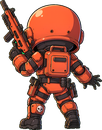
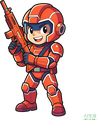
feat(v2.4): 全套AI精灵图(6怪+新正面士兵,绿幕抠图)；自爆胖子/奶妈僵尸新机制；小兵数量+密度提升；子弹/火光/激光统一枪口位(x+22,y-82)；去描边框

diff --git a/index.html b/index.html
@@ -24,6 +24,10 @@ const W = cv.width, H = cv.height;
 const WALL_Y = H - 110, PLAYER_Y = H - 70;
 // 像素士兵立绘（生成素材）
 const soldierImg = new Image(); soldierImg.src = 'soldier.png';
+const ZSPRITES = {};
+for(const [k,f] of Object.entries({normal:'z_normal.png',fast:'z_fast.png',tank:'z_tank.png',bomber:'z_bomber.png',nurse:'z_nurse.png',boss:'z_boss.png'})){
+  const im = new Image(); im.src = f; ZSPRITES[k] = im;
+}
 
 // ================= 存档（局外累积） =================
 const SAVE_KEY = 'zf_save_v1';
@@ -206,23 +210,27 @@ function buildWave(n){
   waveBanner = { text: n%5===0? `⚠ 第 ${n} 波 · BOSS 来袭` : `第 ${n} 波`, boss: n%5===0, life:80, max:80 };
   spawnQueue = [];
   const boss = n % 5 === 0;
-  let count = 6 + Math.floor(n*1.8);
+  let count = 10 + Math.floor(n*2.2);          // 小兵更多，场面热闹
   if(boss) count = Math.floor(count*0.6);
   for(let i=0;i<count;i++){
     let type = 'normal';
     const r = Math.random();
-    if(n>=3 && r<0.22) type='fast';
-    else if(n>=4 && r<0.34) type='tank';
-    spawnQueue.push({ type, delay: 70 + i*(boss?34:22) });   // 开头留 >1 秒喘息
+    if(n>=2 && r<0.25) type='fast';
+    else if(n>=4 && r<0.40) type='tank';
+    else if(n>=6 && r<0.50) type='bomber';     // 自爆胖子
+    else if(n>=8 && r<0.58) type='nurse';      // 奶妈僵尸
+    spawnQueue.push({ type, delay: 70 + i*(boss?34:16) });   // 出怪更密
   }
-  if(boss) spawnQueue.push({ type:'boss', delay: count*22 + 40 });
+  if(boss) spawnQueue.push({ type:'boss', delay: 70 + count*16 + 40 });
 }
 
 const ZTYPES = {
-  normal:{ hp:18,  hpw:6,   spd:0.35, spw:0.012, w:36, h:44, dmg:8,  coin:2,  dia:0, xp:2 },
-  fast:  { hp:10,  hpw:4,   spd:0.85, spw:0.018,  w:30, h:36, dmg:5,  coin:3,  dia:0, xp:3 },
-  tank:  { hp:60,  hpw:14,  spd:0.22, spw:0.008, w:48, h:56, dmg:16, coin:6,  dia:0, xp:5 },
-  boss:  { hp:400, hpw:80,  spd:0.16, spw:0,     w:84, h:92, dmg:30, coin:50, dia:20, xp:30 },
+  normal:{ hp:24,  hpw:7,   spd:0.35, spw:0.012, w:44, h:64, dmg:8,  coin:2,  dia:0, xp:2 },
+  fast:  { hp:14,  hpw:5,   spd:0.85, spw:0.018, w:34, h:56, dmg:5,  coin:3,  dia:0, xp:3 },
+  tank:  { hp:90,  hpw:18,  spd:0.22, spw:0.008, w:58, h:74, dmg:16, coin:6,  dia:0, xp:5 },
+  bomber:{ hp:30,  hpw:9,   spd:0.5,  spw:0.012, w:46, h:72, dmg:0,  coin:5,  dia:0, xp:4 },
+  nurse: { hp:40,  hpw:11,  spd:0.3,  spw:0.010, w:42, h:64, dmg:4,  coin:6,  dia:0, xp:4 },
+  boss:  { hp:500, hpw:95,  spd:0.16, spw:0,     w:98, h:110,dmg:30, coin:50, dia:20, xp:30 },
 };
 function spawn(type){
   const b = ZTYPES[type];
@@ -265,7 +273,7 @@ function shoot(){
   const t = zombies.filter(z=>z.y>-z.h).sort((a,b)=>b.y-a.y)[0];
   if(!t) return;
   // 枪口尖端出膛（贴立绘枪口位置）
-  const tipX = player.x - 14, tipY = PLAYER_Y - 74;
+  const tipX = player.x + 22, tipY = PLAYER_Y - 82;
   for(let i=0;i<stats.multi;i++){
     const off = (i-(stats.multi-1)/2);
     fireBullet(tipX + Math.cos(player.ang)*off*8, tipY + Math.sin(player.ang)*off*8, t, 1, false);
@@ -401,9 +409,34 @@ function update(){
     if(z.slow>0) z.slow--;
     if(z.hurt>0) z.hurt--;
     if(z.burn>0){ z.burn--; z.hp -= 0.08*stats.burn; if(frame%6===0) parts.push({x:z.x+(Math.random()-0.5)*z.w,y:z.y+z.h*0.5,vx:0,vy:-1.5,life:14,color:'#ff7b3a'}); }
+    // 奶妈僵尸：每 2 秒治疗周围同伴
+    if(z.type==='nurse'){
+      if(frame % 120 === 0){
+        let healed=false;
+        zombies.forEach(o=>{
+          if(o!==z && !o.deadTag && Math.hypot(o.x-z.x,o.y-z.y)<130 && o.hp<o.max){
+            o.hp = Math.min(o.max, o.hp + o.max*0.08);
+            healed=true;
+            floatText(o.x, o.y, '+', '#7dff9e');
+          }
+        });
+        if(healed) ring(z.x, z.y+z.h/2, 130, '#7dff9e', 2, 16);
+      }
+    }
+    // 自爆胖子：贴近防线自爆（大伤害+震动），被远距打死则安全
+    if(z.type==='bomber'){
+      if(z.y + z.h >= WALL_Y + 26){
+        wall.hp -= 26; shake=16;
+        boomArea(z.x, WALL_Y+20, 90, 0);
+        burst(z.x, WALL_Y, '#ff5252', 22);
+        floatText(z.x, WALL_Y-40, '💥 自爆 -26', '#ff5252');
+        z.hp = 0; z.deadTag = true;
+        return;
+      }
+    }
     if(z.y + z.h < WALL_Y + 30){ z.y += spd; }
     else {
-      if(--z.atkCd<=0){ wall.hp -= z.dmg; z.atkCd=50; burst(z.x, WALL_Y, '#ff5252', 5); shake=Math.max(shake,4); }
+      if(z.dmg>0 && --z.atkCd<=0){ wall.hp -= z.dmg; z.atkCd=50; burst(z.x, WALL_Y, '#ff5252', 5); shake=Math.max(shake,4); }
     }
     // Boss 远程攻击
     if(z.type==='boss' && z.y>60 && --z.shotCd<=0){
@@ -507,49 +540,42 @@ const bg = document.createElement('canvas'); bg.width=W; bg.height=H;
 })();
 
 function drawZombie(z){
-  ctx.save(); ctx.translate(z.x, z.y);
-  const t = frame*0.15 + z.x;
-  const step = Math.sin(t)*4;           // 走路摆动
-  const lean = z.type==='fast'? -0.12 : 0;
-  ctx.rotate(lean);
-  const C = { normal:{body:'#5d9448',dark:'#436f33',head:'#7ab35e'},
-              fast:  {body:'#b09a3e',dark:'#8a772c',head:'#d0b955'},
-              tank:  {body:'#6d4b96',dark:'#523677',head:'#8a63b8'},
-              boss:  {body:'#a83a3a',dark:'#7d2727',head:'#c74f4f'} }[z.type];
-  // 腿
-  ctx.fillStyle=C.dark;
-  ctx.fillRect(-z.w*0.28 + step*0.4, z.h*0.78, z.w*0.2, z.h*0.24);
-  ctx.fillRect( z.w*0.08 - step*0.4, z.h*0.78, z.w*0.2, z.h*0.24);
-  // 身体
-  ctx.fillStyle = z.hurt>0? '#fff' : C.body;
-  ctx.beginPath(); ctx.roundRect(-z.w*0.38, z.h*0.34, z.w*0.76, z.h*0.48, 7); ctx.fill();
-  // 前伸手臂
-  ctx.fillStyle = z.hurt>0? '#fff' : C.dark;
-  ctx.save(); ctx.translate(-z.w*0.34, z.h*0.42); ctx.rotate(Math.sin(t)*0.2);
-  ctx.fillRect(-z.w*0.42, 0, z.w*0.5, 7); ctx.restore();
-  ctx.save(); ctx.translate(z.w*0.34, z.h*0.42); ctx.rotate(-Math.sin(t)*0.2);
-  ctx.fillRect(-z.w*0.08, 0, z.w*0.5, 7); ctx.restore();
-  // 头
-  ctx.fillStyle = z.hurt>0? '#fff' : C.head;
-  ctx.beginPath(); ctx.arc(step*0.2, z.h*0.2, z.w*0.3, 0, 7); ctx.fill();
-  // 红眼
-  ctx.fillStyle='#ff3b3b';
-  ctx.fillRect(-z.w*0.16+step*0.2, z.h*0.13, 5, 5);
-  ctx.fillRect( z.w*0.05+step*0.2, z.h*0.13, 5, 5);
-  // Boss 犄角
-  if(z.type==='boss'){
-    ctx.fillStyle='#e8c14a';
-    ctx.beginPath(); ctx.moveTo(-z.w*0.3,-z.h*0.02); ctx.lineTo(-z.w*0.42,-z.h*0.22); ctx.lineTo(-z.w*0.16,-z.h*0.08); ctx.fill();
-    ctx.beginPath(); ctx.moveTo(z.w*0.3,-z.h*0.02); ctx.lineTo(z.w*0.42,-z.h*0.22); ctx.lineTo(z.w*0.16,-z.h*0.08); ctx.fill();
+  const spr = ZSPRITES[z.type];
+  ctx.save();
+  // 脚下阴影
+  ctx.globalAlpha=0.35; ctx.fillStyle='#0a0814';
+  ctx.beginPath(); ctx.ellipse(z.x, z.y+z.h-2, z.w*0.38, 6, 0, 0, 7); ctx.fill();
+  ctx.globalAlpha=1;
+  const wob = Math.sin(frame*0.15+z.x)*2;   // 走路晃动
+  if(spr && spr.complete && spr.naturalWidth>0){
+    ctx.drawImage(spr, z.x - spr.width/2, z.y + wob*0.3, spr.width, spr.height);
+    if(z.hurt>0){   // 受击白闪（用半透明白矩形叠加精灵区域）
+      ctx.globalCompositeOperation='source-atop';
+      ctx.fillStyle='rgba(255,255,255,0.55)';
+      ctx.fillRect(z.x-spr.width/2, z.y, spr.width, spr.height);
+      ctx.globalCompositeOperation='source-over';
+    }
+  } else {
+    // 兜底：无图时画色块
+    ctx.fillStyle = '#7fae5b';
+    ctx.beginPath(); ctx.roundRect(z.x-z.w/2, z.y, z.w, z.h, 6); ctx.fill();
   }
-  // 灼烧
-  if(z.burn>0){ ctx.fillStyle='rgba(255,120,40,0.25)'; ctx.beginPath(); ctx.arc(0,z.h/2,z.w*0.55,0,7); ctx.fill(); }
-  // 冰冻
-  if(z.slow>0){ ctx.strokeStyle='#7fd6ff'; ctx.lineWidth=2; ctx.strokeRect(-z.w/2-2,-2,z.w+4,z.h+4); }
-  // 血条
-  ctx.fillStyle='#00000088'; ctx.fillRect(-z.w/2,-12,z.w,5);
-  ctx.fillStyle='#ff5252'; ctx.fillRect(-z.w/2,-12,z.w*(z.hp/z.max),5);
   ctx.restore();
+  // 冰冻框 / 血条（画在精灵上层）
+  if(z.slow>0){
+    ctx.strokeStyle='#7fd6ff'; ctx.lineWidth=2;
+    ctx.strokeRect(z.x-z.w/2-2, z.y-2, z.w+4, z.h+4);
+  }
+  if(z.hp < z.max){
+    const bw = z.w;
+    ctx.fillStyle='#00000088'; ctx.fillRect(z.x-bw/2,-12+ (z.y>0?0:0),bw,5);
+    ctx.fillStyle='#ff5252'; ctx.fillRect(z.x-bw/2,-12,bw*(z.hp/z.max),5);
+  }
+  // 自爆胖子低血量闪烁警示
+  if(z.type==='bomber' && z.hp < z.max*0.4 && frame%14<7){
+    ctx.strokeStyle='#ff5252'; ctx.lineWidth=3;
+    ctx.strokeRect(z.x-z.w/2-4, z.y-4, z.w+8, z.h+8);
+  }
 }
 
 function draw(){
@@ -580,15 +606,11 @@ function draw(){
     ctx.beginPath(); ctx.ellipse(player.x, PLAYER_Y+6, SW*0.32, 7, 0, 0, 7); ctx.fill();
     ctx.restore();
     ctx.drawImage(soldierImg, player.x - SW/2, sy + bob, SW, SH);
-    // 轮廓描边光（让角色从背景里"跳"出来）
-    ctx.save();
-    ctx.globalAlpha=0.25; ctx.strokeStyle='#8be9fd'; ctx.lineWidth=2;
-    ctx.strokeRect(player.x-SW/2-1, sy+bob-1, SW+2, SH+2);
-    ctx.restore();
+
     // 枪口火光（贴立绘枪口）
     if(flashMuzzle>0){
       ctx.save();
-      ctx.translate(player.x - SW*0.15, sy + 10);
+      ctx.translate(player.x + 22, sy + 34);
       ctx.shadowColor='#ffd93d'; ctx.shadowBlur=12;
       ctx.fillStyle='#fff3b0'; ctx.beginPath(); ctx.arc(0,0,7,0,7); ctx.fill();
       ctx.fillStyle='#ffb347'; ctx.beginPath(); ctx.arc(0,0,4,0,7); ctx.fill();
@@ -609,9 +631,9 @@ function draw(){
     ctx.shadowColor='#ff5ce1'; ctx.shadowBlur=14;
     ctx.strokeStyle='#ff9df0'; ctx.lineWidth=2+stats.laser;
     ctx.globalAlpha=0.85;
-    ctx.beginPath(); ctx.moveTo(player.x,PLAYER_Y-72); ctx.lineTo(laserTarget.x,laserTarget.y+laserTarget.h/2); ctx.stroke();
+    ctx.beginPath(); ctx.moveTo(player.x+22,PLAYER_Y-82); ctx.lineTo(laserTarget.x,laserTarget.y+laserTarget.h/2); ctx.stroke();
     ctx.strokeStyle='#ffffff'; ctx.lineWidth=1;
-    ctx.beginPath(); ctx.moveTo(player.x,PLAYER_Y-72); ctx.lineTo(laserTarget.x,laserTarget.y+laserTarget.h/2); ctx.stroke();
+    ctx.beginPath(); ctx.moveTo(player.x+22,PLAYER_Y-82); ctx.lineTo(laserTarget.x,laserTarget.y+laserTarget.h/2); ctx.stroke();
     ctx.globalAlpha=1;
     const fx=laserTarget.x, fy=laserTarget.y+laserTarget.h/2;
     ctx.fillStyle='#ffceff';
